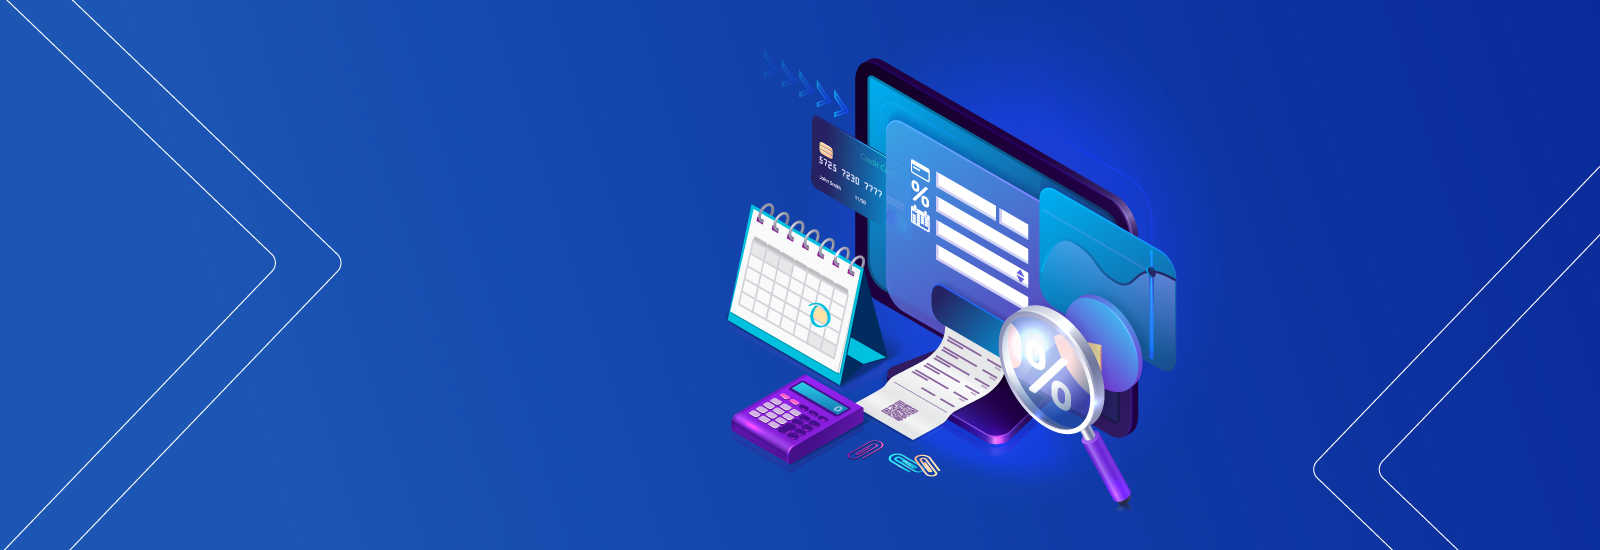
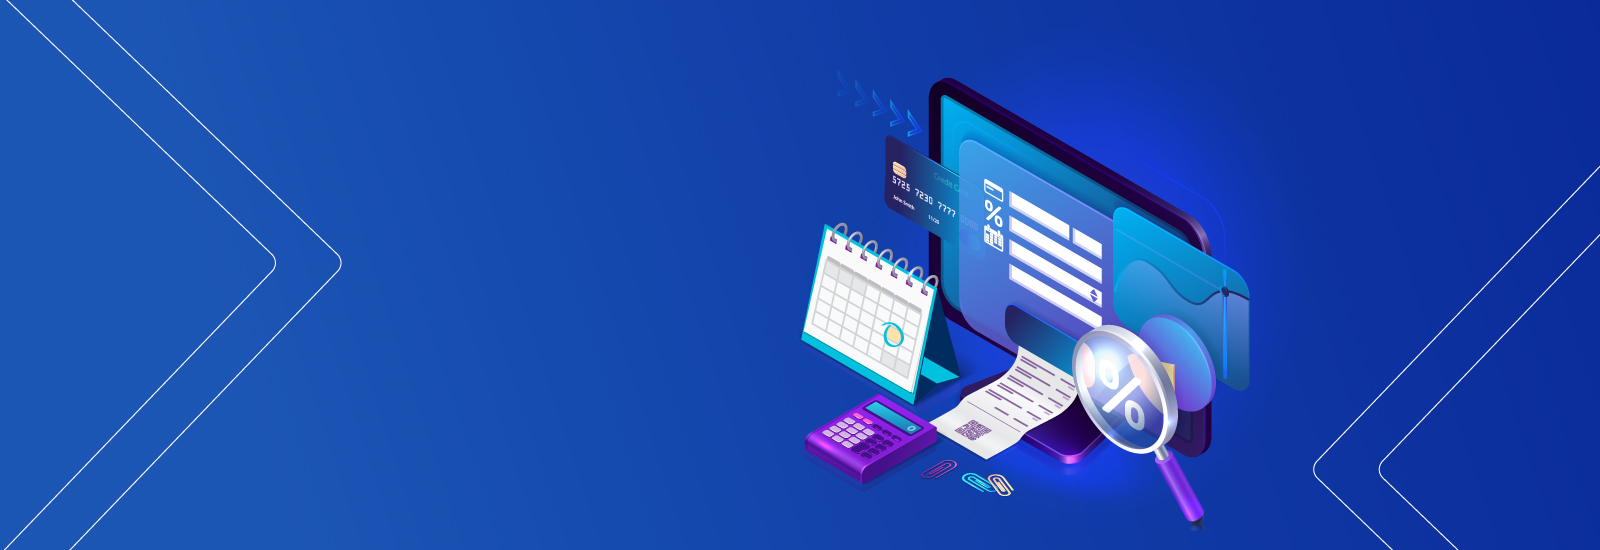
criação da página conta.

Changed region(s): [[0.4375, 0.0927, 0.7812, 0.9582]]

diff --git a/components/conta/ContaBasica.vue b/components/conta/ContaBasica.vue
@@ -1,0 +1,53 @@
+<template>
+  <section class="pt-5 pb-5 bg-white">
+    <b-container>
+      <b-row>
+        <b-col cols="12" md="12" lg="12" class="pt-3 pb-3">
+          <h2 class="text-title text-primary">
+            Conta básica para você ser Imobanco
+          </h2>
+        </b-col>
+      </b-row>
+      <b-row>
+        <b-col cols="6" md="3" lg="3" class="text-center">
+          <img
+            src="~static/image/icon/c-icon-boleto.png"
+            class="img-fluid icon-ecommerce icon-ecommerce"
+          />
+          <h4 class="text-center text-subtitle text-success">
+            Emissão de Boleto
+          </h4>
+        </b-col>
+        <b-col cols="6" md="3" lg="3" class="text-center">
+          <img
+            src="~static/image/icon/c-icon-split.png"
+            class="img-fluid icon-ecommerce"
+          />
+          <h4 class="text-center text-subtitle text-success">
+           Split de Pagamento
+          </h4>
+        </b-col>
+        <b-col cols="6" md="3" lg="3" class="text-center">
+          <img
+            src="~static/image/icon/c-icon-gateway.png"
+            class="img-fluid icon-ecommerce"
+          />
+          <h4 class="text-center text-subtitle text-success">Gateway de Pagamentos</h4>
+        </b-col>
+         <b-col cols="6" md="3" lg="3" class="text-center">
+          <img
+            src="~static/image/icon/c-icon-liquidacao.png"
+            class="img-fluid icon-ecommerce"
+          />
+          <h4 class="text-center text-subtitle text-success">Liquidação de Boletos</h4>
+        </b-col>
+      </b-row>
+    </b-container>
+  </section>
+</template>
+
+<script>
+
+</script>
+
+<style lang="scss" scoped></style>

diff --git a/components/contact/ContactContent.vue b/components/contact/ContactContent.vue
@@ -5,21 +5,23 @@
         <h3
           class="mt-5 text-title title-font text-imobanco"
         >Contato e Suporte - Horários de atendimento</h3>
-        <h5 class="text-subtitle text-center text-black">Chat Imobanco</h5>
+        <h5 class="text-subtitle text-center text-black">Chat Imobanco - Comercial</h5>
         <p>
           Segunda a sexta-feira, das 9h às 16h
           <br />Sábados, Domingos e feriados nacionais, sem expediente
         </p>
         <br />
-        <h5 class="text-subtitle text-center text-black">Suporte Imobanco - Chat Online</h5>
+        <h5 class="text-subtitle text-center text-black">Suporte Imobanco Sistema - Chat Online</h5>
         <p>
           Segunda a sexta-feira, das 9h às 16h
           <br />Sábados, Domingos e feriados nacionais, sem expediente
         </p>
         <br />
-        <h5 class="text-subtitle text-center text-black">Agendamento - Sistema</h5>
+        <h5 class="text-subtitle text-center text-black">Agendamento - Comercial e Suporte</h5>
         <p>
-          Segunda a Domingo, 24h
+          <a href="https://calendly.com/imobanco/atendimento-presencial?month=2021-06" class="btn btn-success">Presencial - Vendas</a>
+          <a href="https://calendly.com/imobanco/atendimento-telefonico-imobanco" class="btn btn-success">Online - Vendas</a>
+          <a href="https://calendly.com/imobanco" class="btn btn-success">Outros</a>
           <br />
         </p>
       </b-col>

diff --git a/components/conta/ContaCustodia.vue b/components/conta/ContaCustodia.vue
@@ -1,0 +1,46 @@
+<template>
+  <section class="pt-5 pb-5 bg-white">
+    <b-container>
+      <b-row>
+        <b-col cols="12" md="12" lg="12" class="pt-3 pb-3">
+          <h2 class="text-title text-primary">
+            Sua Conta Custódia. Inúmeras vantagens
+          </h2>
+        </b-col>
+      </b-row>
+      <b-row>
+        <b-col cols="12" md="4" lg="4" class="text-center">
+          <img
+            src="~static/image/icon-produtos.png"
+            class="img-fluid icon-ecommerce icon-ecommerce"
+          />
+          <h4 class="text-center text-subtitle text-success">
+            Cadastre seus produtos
+          </h4>
+        </b-col>
+        <b-col cols="12" md="4" lg="4" class="text-center">
+          <img
+            src="~static/image/icon-departamento.png"
+            class="img-fluid icon-ecommerce"
+          />
+          <h4 class="text-center text-subtitle text-success">
+            Escolha o departamento
+          </h4>
+        </b-col>
+        <b-col cols="12" md="4" lg="4" class="text-center">
+          <img
+            src="~static/image/icon-cart.png"
+            class="img-fluid icon-ecommerce"
+          />
+          <h4 class="text-center text-subtitle text-success">Começar a vender</h4>
+        </b-col>
+      </b-row>
+    </b-container>
+  </section>
+</template>
+
+<script>
+
+</script>
+
+<style lang="scss" scoped></style>

diff --git a/assets/scss/custom/navbar.scss b/assets/scss/custom/navbar.scss
@@ -47,7 +47,58 @@ nav.shrink a{
   color: $primary;
 }
 
-
+// Medium devices (tablets, less than 992px)
+@media (max-width: 991px) { 
+  nav {
+    padding: 0.3rem;
+    transition: all 0.5s;
+    color: $light;
+    background-color: $light;
+    
+    // border-bottom: 1px solid $primary;
+    .logo{
+      background-image: url("static/image/imobanco-azul.png");
+      background-size: 200px;
+      background-position-y: center;
+      background-repeat: no-repeat;
+      width: 200px;
+      height: 50px;
+      
+    }
+    
+  }
+  nav a {
+    // margin-rigtop: 70;ht: 1rem;
+    padding: 0.3rem;
+    text-align: left;
+    text-decoration: none !important;
+    color: $primary;
+  
+  }
+  nav a:hover {
+    // margin-rigtop: 70;ht: 1rem;
+    text-decoration: none !important;
+    color: $success;
+  
+  }
+  nav.shrink {
+    padding: 0.3rem;
+    background: $light;
+  
+    .logo{
+      background-image: url("static/image/imobanco-azul.png");
+      background-size: 200px;
+      background-position-y: center;
+      background-repeat: no-repeat;
+      width: 200px;
+      height: 50px;
+      
+    }
+  }
+  nav.shrink a{
+    color: $primary;
+  }
+ }
 
 .color-mute {
   background-color: #f5f5f5;

diff --git a/components/conta/ContaSlide.vue b/components/conta/ContaSlide.vue
@@ -1,9 +1,8 @@
 <template>
-  <section class="slide-home-ecommerce">
+  <section class="slide-home-conta">
       <div class="slide-home-text">
-      <h1 class="text-slide-home">Crie sua própria loja <br> e venda muito mais!</h1>
-      <p class="text-light m-0 p-0">Setup e custo para treinamento gratuito*</p>
-      <p class="text-light m-0 p-0">*Consulte as taxas transacionais.</p>
+      <h1 class="text-slide-home">Crie sua conta <br> para ser Imobanco</h1>
+      <p class="text-light m-0 p-0">Conta Básica e Conta Custódia</p>
       <div class="mt-2">
          <!-- <p class="text-subtitle ">Simplifique com o Imobanco.</p> -->
           <a href="https://app.imobanco.com.br/register" target="_blank" class="btn btn-success">Abra sua conta</a>

diff --git a/assets/scss/custom/components/slide.scss b/assets/scss/custom/components/slide.scss
@@ -29,6 +29,7 @@
   font-size:  38px;
   font-weight: 700;
   color: $light;
+  text-shadow: black 0.1em 0.1em 0.3em;
 }
 .info-home{
   display: block;
@@ -56,6 +57,16 @@
   height: 620px;
   background-color: $white;
   background-image: url("../../static/image/banner-boleto.jpg");
+  background-size: cover;
+  background-position: center;
+  position: relative;
+  overflow: hidden;
+}
+.slide-home-conta{
+  width: 100%;
+  height: 620px;
+  background-color: $white;
+  background-image: url("../../static/image/banner-conta.jpg");
   background-size: cover;
   background-position: center;
   position: relative;

diff --git a/pages/conta/index.vue b/pages/conta/index.vue
@@ -1,0 +1,23 @@
+<template>
+  <div>
+    <ContaSlide />
+    <ContaBasica />
+    <ContaCustodia />
+  </div>
+</template>
+
+<script>
+import ContaSlide from "@/components/conta/ContaSlide.vue";
+import ContaBasica from "@/components/conta/ContaBasica.vue";
+import ContaCustodia from "@/components/conta/ContaCustodia.vue";
+
+export default {
+  components: {
+    ContaSlide,
+    ContaBasica,
+    ContaCustodia,
+  },
+};
+</script>
+
+<style lang="scss" scoped></style>

diff --git a/components/main/NavTop.vue b/components/main/NavTop.vue
@@ -40,7 +40,7 @@
              </b-nav-item>
         <b-nav-item>    
                   <router-link
-                    to="/imprensa"
+                    to="/conta"
                     class=""
                     >Contas</router-link
                   >
